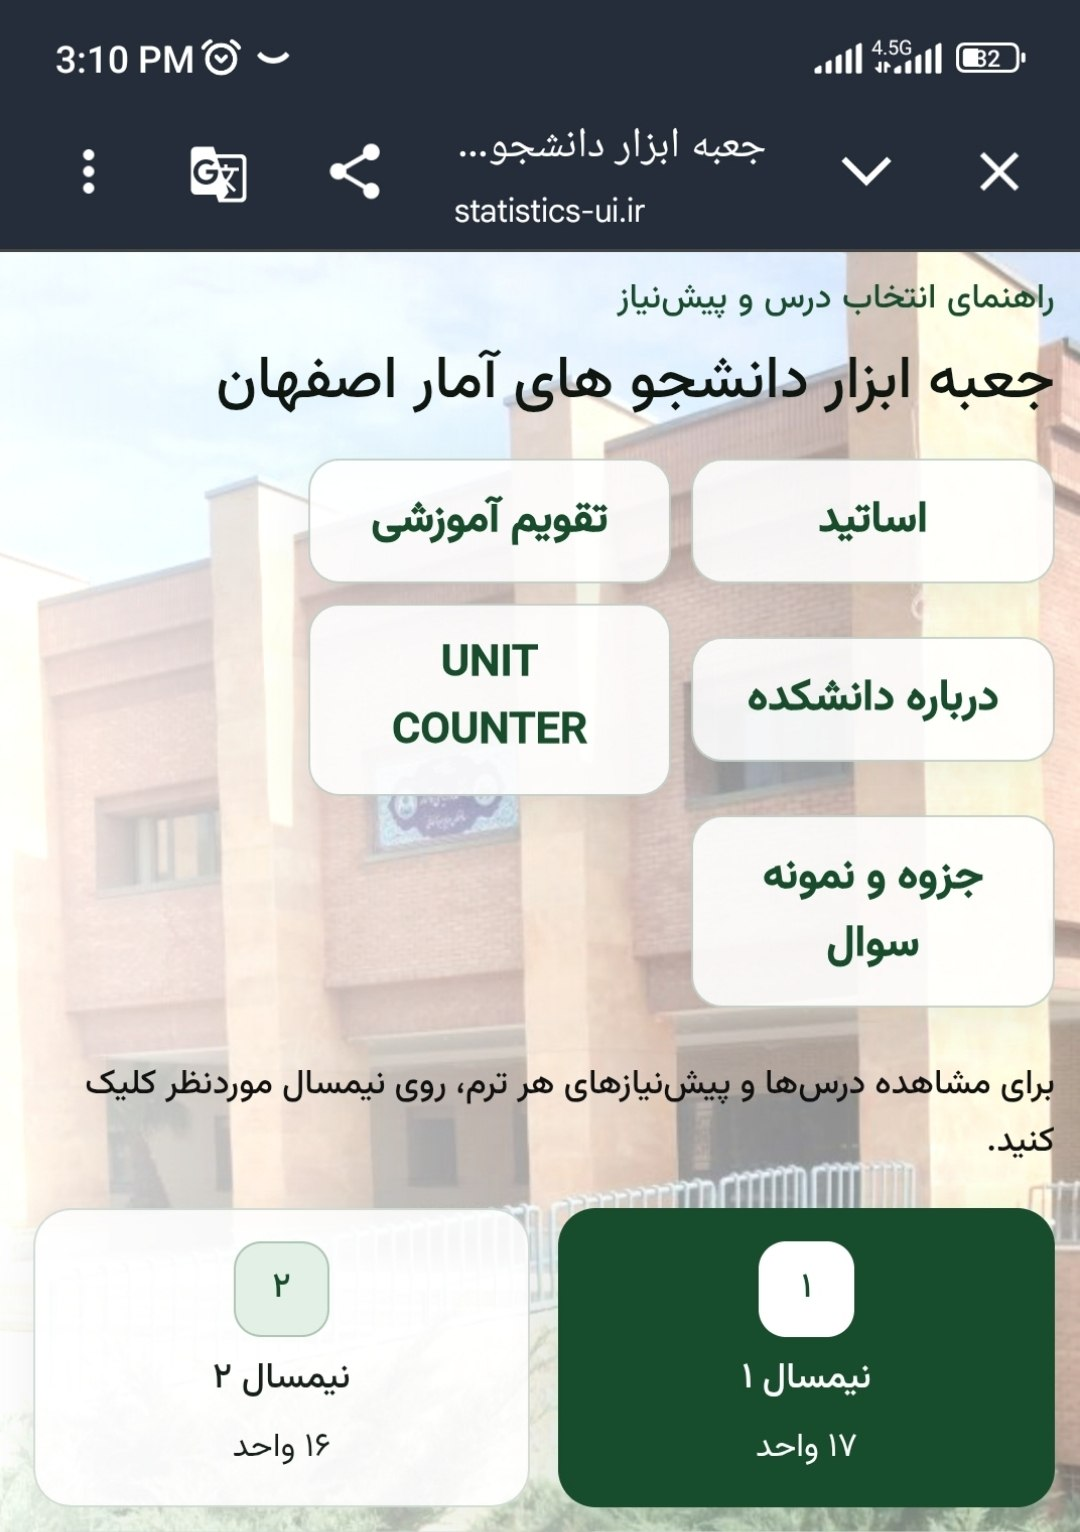
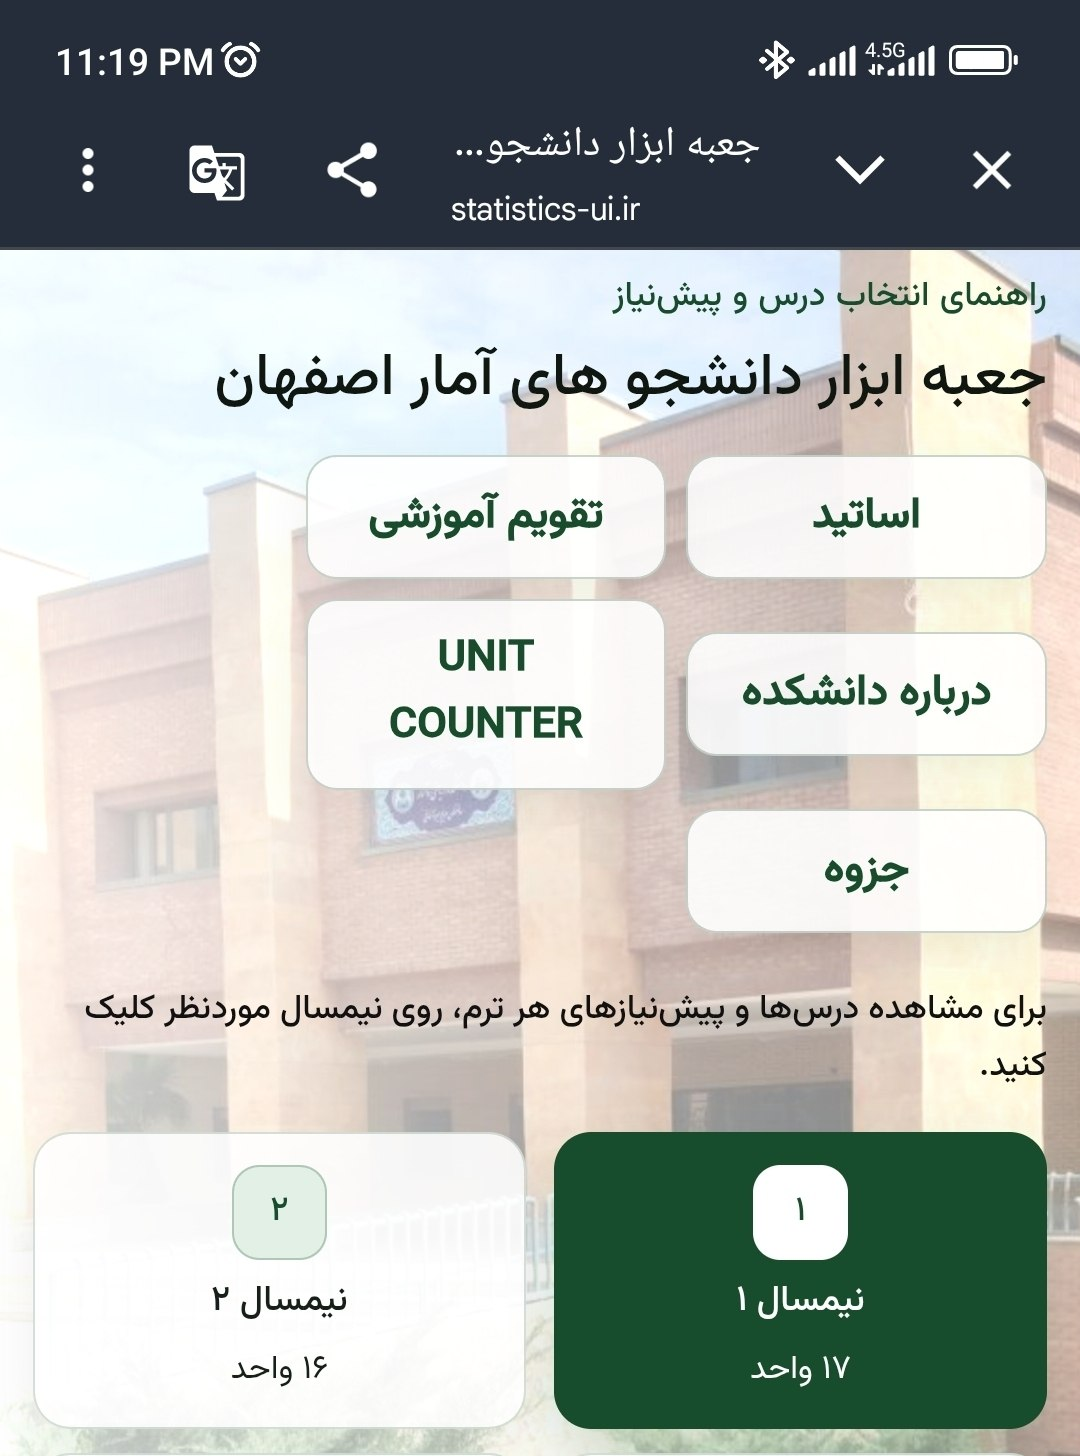
Update content

diff --git a/index.html b/index.html
@@ -3523,17 +3523,17 @@ html>body{padding:0}</style>
       history.replaceState({ view: "roadmap" }, "");
       window.addEventListener("popstate", restoreViewFromHistory);
 
-      professorsNav?.addEventListener("click", showProfessors);
-      calendarNav?.addEventListener("click", showCalendar);
-      facultyNav?.addEventListener("click", showFaculty);
-      unitCounterNav?.addEventListener("click", showUnitCounter);
-      notesNav?.addEventListener("click", showNotes);
-      root.querySelector("#back-to-roadmap-notes")?.addEventListener("click", showRoadmap);
-      backToRoadmap?.addEventListener("click", showRoadmap);
-      backToProfessors?.addEventListener("click", showProfessors);
-      root.querySelector("#back-to-roadmap-calendar")?.addEventListener("click", showRoadmap);
-      root.querySelector("#back-to-roadmap-faculty")?.addEventListener("click", showRoadmap);
-      root.querySelector("#back-to-roadmap-unit-counter")?.addEventListener("click", showRoadmap);
+      professorsNav?.addEventListener("click", () => showProfessors());
+      calendarNav?.addEventListener("click", () => showCalendar());
+      facultyNav?.addEventListener("click", () => showFaculty());
+      unitCounterNav?.addEventListener("click", () => showUnitCounter());
+      notesNav?.addEventListener("click", () => showNotes());
+      root.querySelector("#back-to-roadmap-notes")?.addEventListener("click", () => showRoadmap());
+      backToRoadmap?.addEventListener("click", () => showRoadmap());
+      backToProfessors?.addEventListener("click", () => showProfessors());
+      root.querySelector("#back-to-roadmap-calendar")?.addEventListener("click", () => showRoadmap());
+      root.querySelector("#back-to-roadmap-faculty")?.addEventListener("click", () => showRoadmap());
+      root.querySelector("#back-to-roadmap-unit-counter")?.addEventListener("click", () => showRoadmap());
       unitCounterReset?.addEventListener("click", () => {
         unitCounterState.passedKeys.clear();
         renderUnitCounter();
